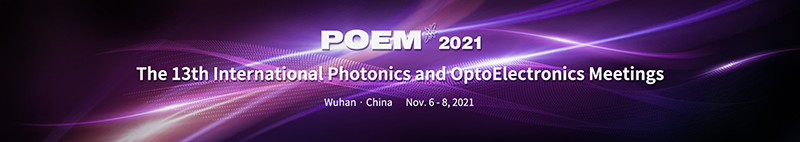
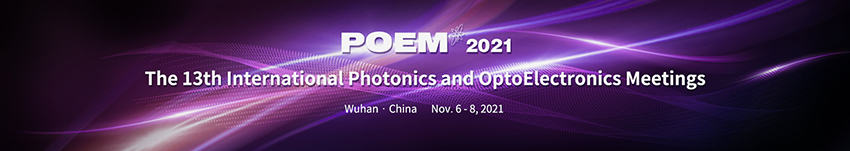
1

diff --git a/index.html b/index.html
@@ -40,11 +40,11 @@ ul {
 </head>
 <body>
 <center>
-  <table width="800px"  align="center">
+  <table width="850px"  align="center">
     <tbody>
       <tr>
-		 <td style="padding: 5px; text-align: center;" colspan="5">
-    <img src="./img/banner.jpg" alt="" style="width: 800px;">
+		 <td style="padding: 5px; text-align: center;">
+    <img src="./img/banner.jpg" alt="" style="width: 850px;">
 	<p style="font-size: 12px; color: white; background-color:gray; line-height:40px; margin-top: -5px;marg"><span style="margin-left: 150px;"><a style="color: white;" href="http://poem.hust.edu.cn/index.htm" target="_blank"><strong>Home</strong></a>&nbsp;&nbsp;&nbsp;&nbsp;&nbsp;&nbsp;&nbsp;&nbsp; &nbsp;&nbsp;&nbsp;&nbsp;&nbsp;&nbsp;&nbsp;&nbsp;&nbsp;&nbsp; &nbsp;&nbsp;|&nbsp;&nbsp;&nbsp;&nbsp;&nbsp;&nbsp;&nbsp;&nbsp; &nbsp;&nbsp;&nbsp;&nbsp;&nbsp;&nbsp;&nbsp;&nbsp;&nbsp;&nbsp;&nbsp;&nbsp;<a style="color: white;" href="http://poem.hust.edu.cn/Committees.htm" target="_blank" ><strong>Committees</strong></a>&nbsp;&nbsp;&nbsp;&nbsp;&nbsp;&nbsp;&nbsp;&nbsp; &nbsp;&nbsp;&nbsp;&nbsp;&nbsp;&nbsp;&nbsp;&nbsp;&nbsp;&nbsp;&nbsp;&nbsp; &nbsp;&nbsp;|&nbsp;&nbsp;&nbsp;&nbsp;&nbsp;&nbsp;&nbsp;&nbsp; &nbsp;&nbsp;&nbsp;&nbsp;&nbsp;&nbsp;&nbsp;&nbsp;&nbsp;&nbsp;&nbsp;&nbsp;&nbsp;&nbsp;<a style="color: white;" href="http://poem.hust.edu.cn/Award.htm" target="_blank"><strong>Award</strong></a></span></p></td>
 		</tr>
 	  
@@ -158,17 +158,17 @@ ul {
 <div style="text-align: center; margin-bottom:10px"><span style="font-size:18px"><span style="font-family:Trebuchet MS,Helvetica,sans-serif"><span style="color:#800080"><strong>Host</strong></span></span></span></div>
 
 <div style="text-align: center;">    
-<img alt="" src="./img/img_131998520115341673.png" style="height:114px; width:151px">
+<img alt="" src="./img/img_131998520115341673.png" style="height:114px; width:150px">
 
 </div><div style="text-align:center"><img alt="" src="./img/img_131684279442822932.png" style="height:1px; width:150px"></div>
 
 <div style="text-align: center; margin-bottom:10px"><span style="font-size:18px"><span style="font-family:Trebuchet MS,Helvetica,sans-serif"><span style="color:#800080"><strong>Organizers</strong></span></span></span></div>
 
 <div style="text-align: center;">    
-<img alt="" src="./img/img_131684896695372618.png" style="width:151px">
+<img alt="" src="./img/img_131684896695372618.png" style="width:150px">
 
 
-<img alt="" src="./img/guanggu.png" style="width:151px">
+<img alt="" src="./img/guanggu.png" style="width:150px">
 
 </div>
 
@@ -179,7 +179,7 @@ ul {
 <div style="text-align: center;">&nbsp;</div>
 
 <div style="text-align: center;">    
-<img alt="" src="./img/SPIE-logo.png" style="width:151px">
+<img alt="" src="./img/SPIE-logo.png" style="width:150px">
 
 </div>
 
